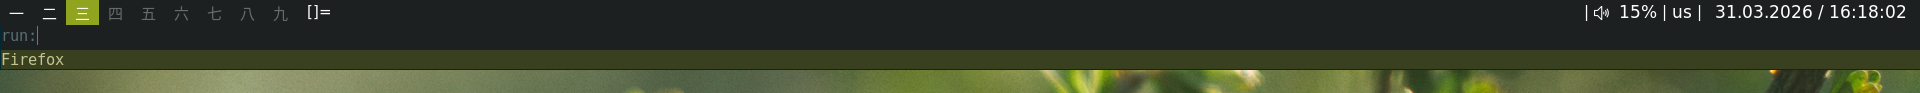
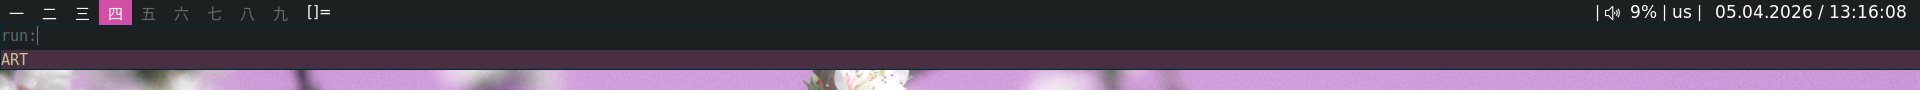
update: pink rice

diff --git a/waybar/.config/waybar/colors.css b/waybar/.config/waybar/colors.css
@@ -3,5 +3,5 @@
 @define-color background #1d2021;
 
 @define-color color0 #1d2021;
-@define-color color1 #91A420;
+@define-color color1 #D14FA7;
 
